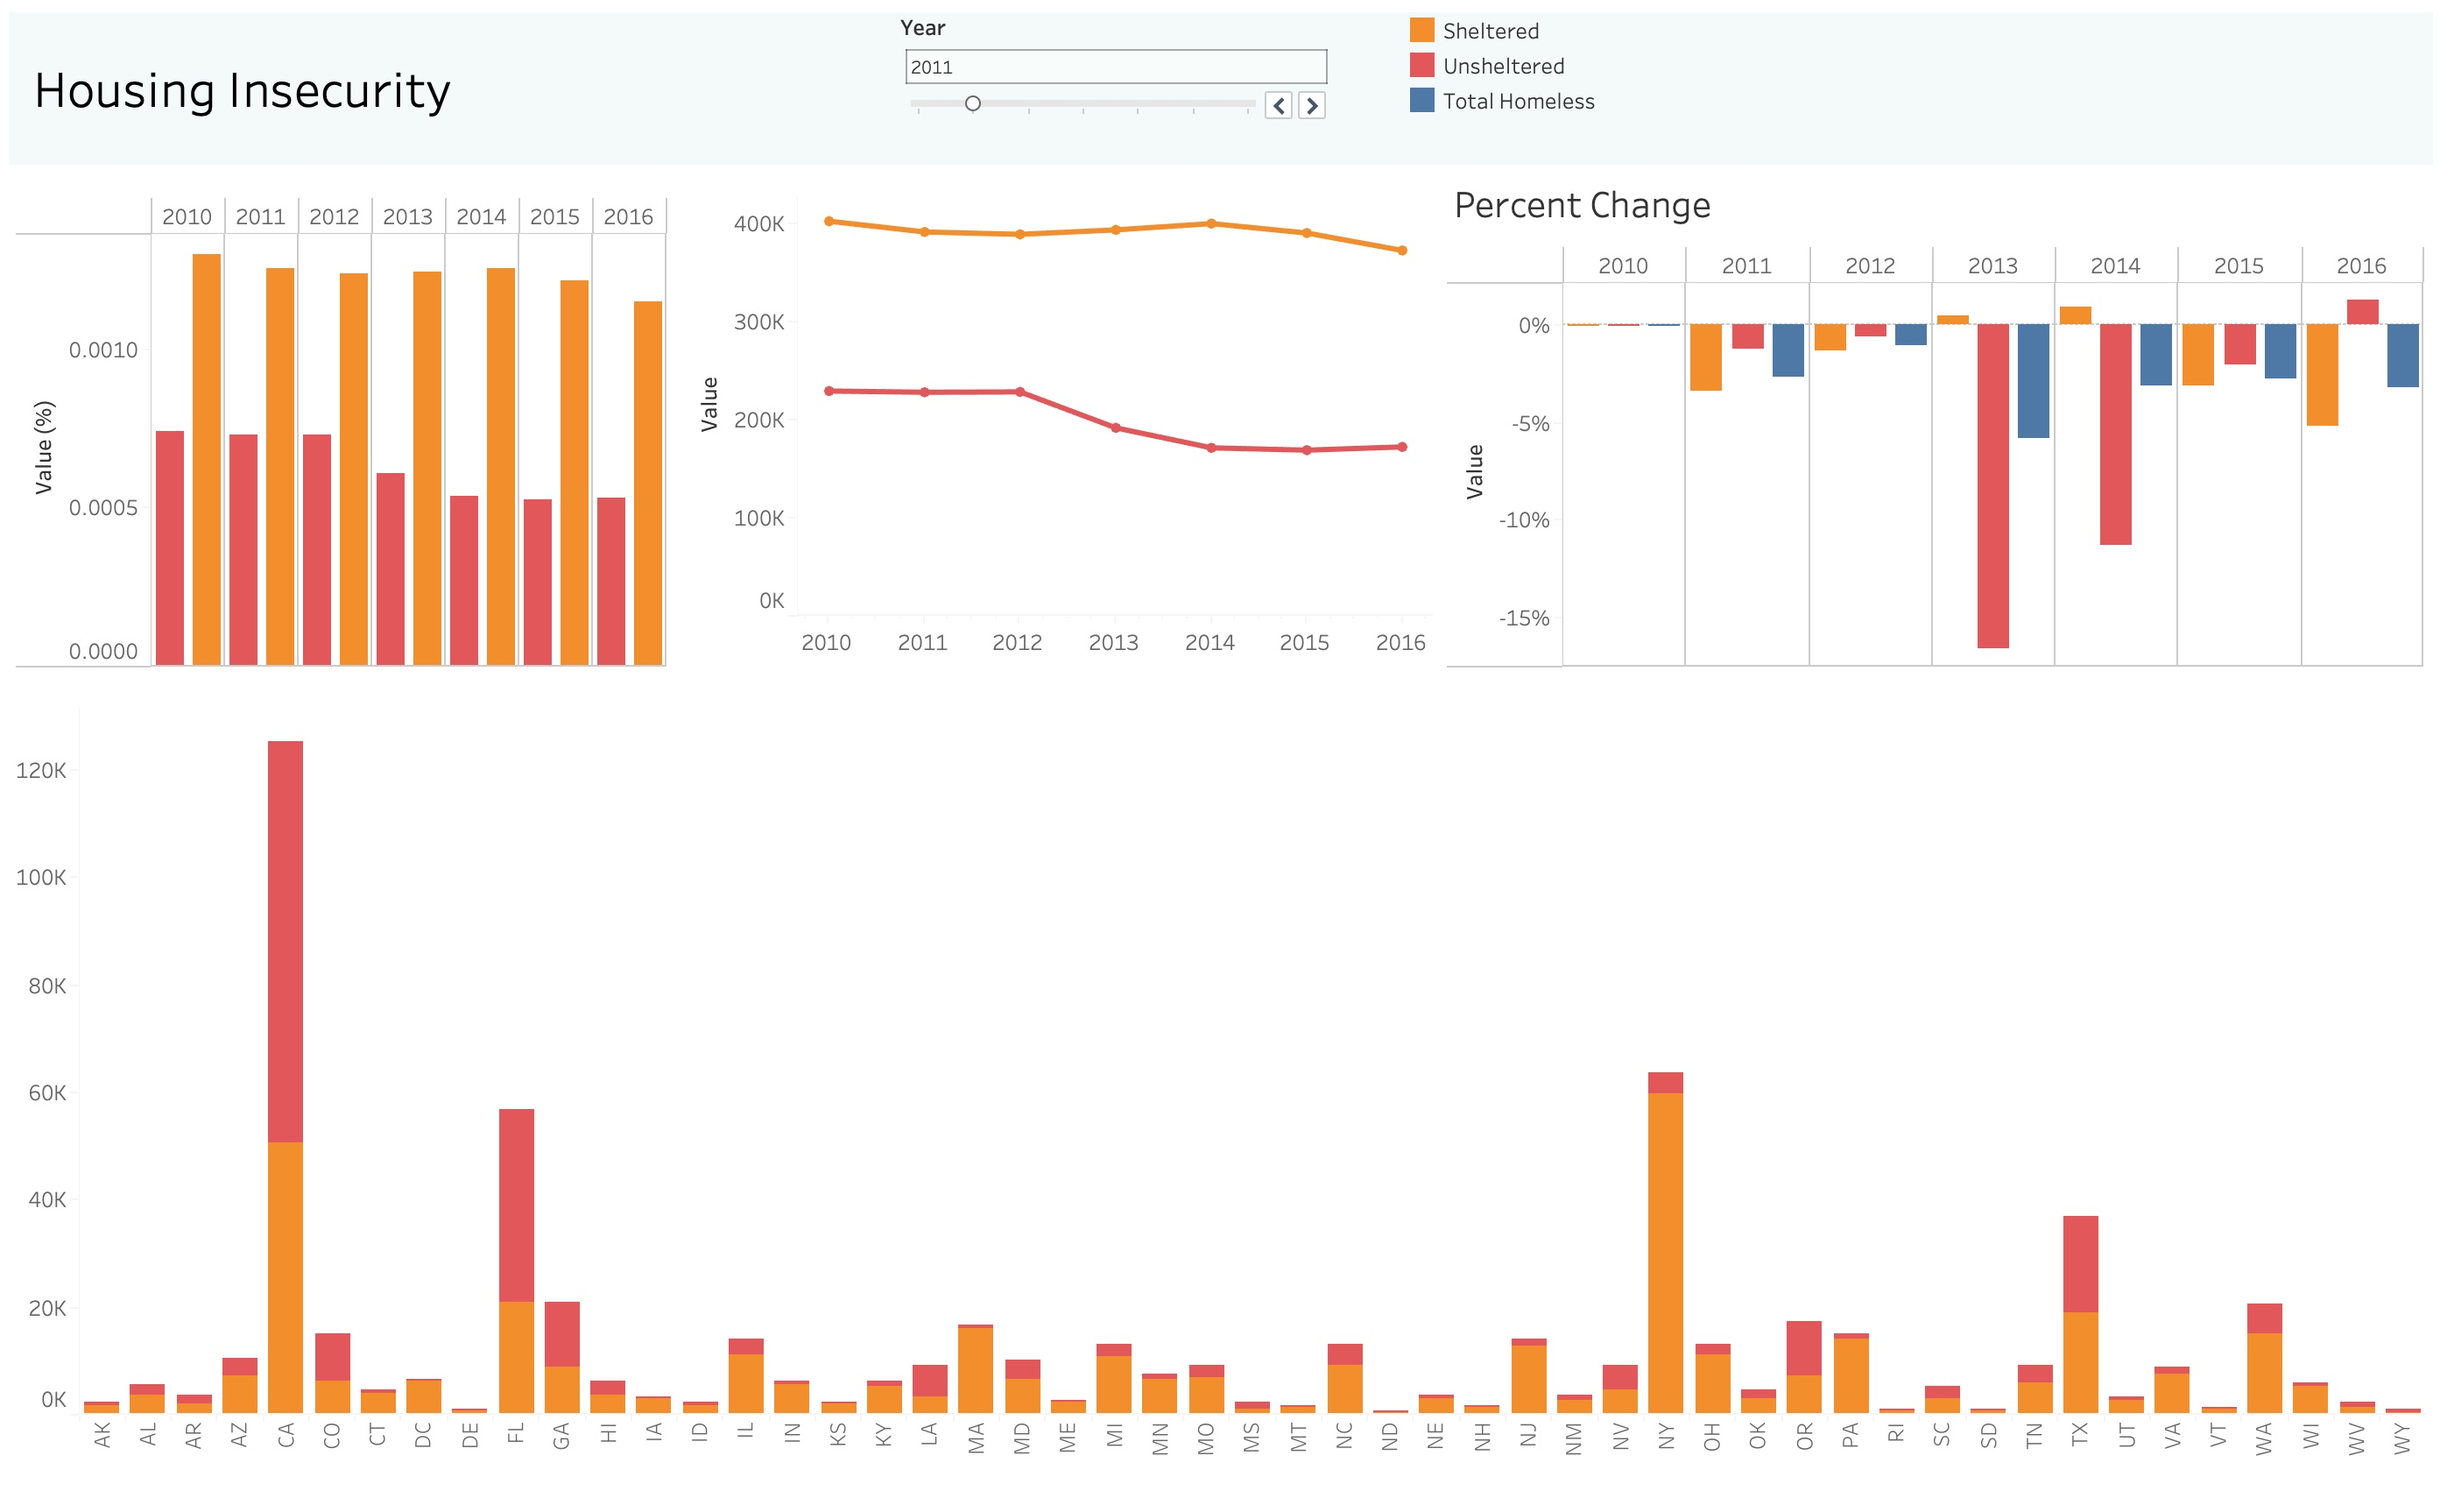
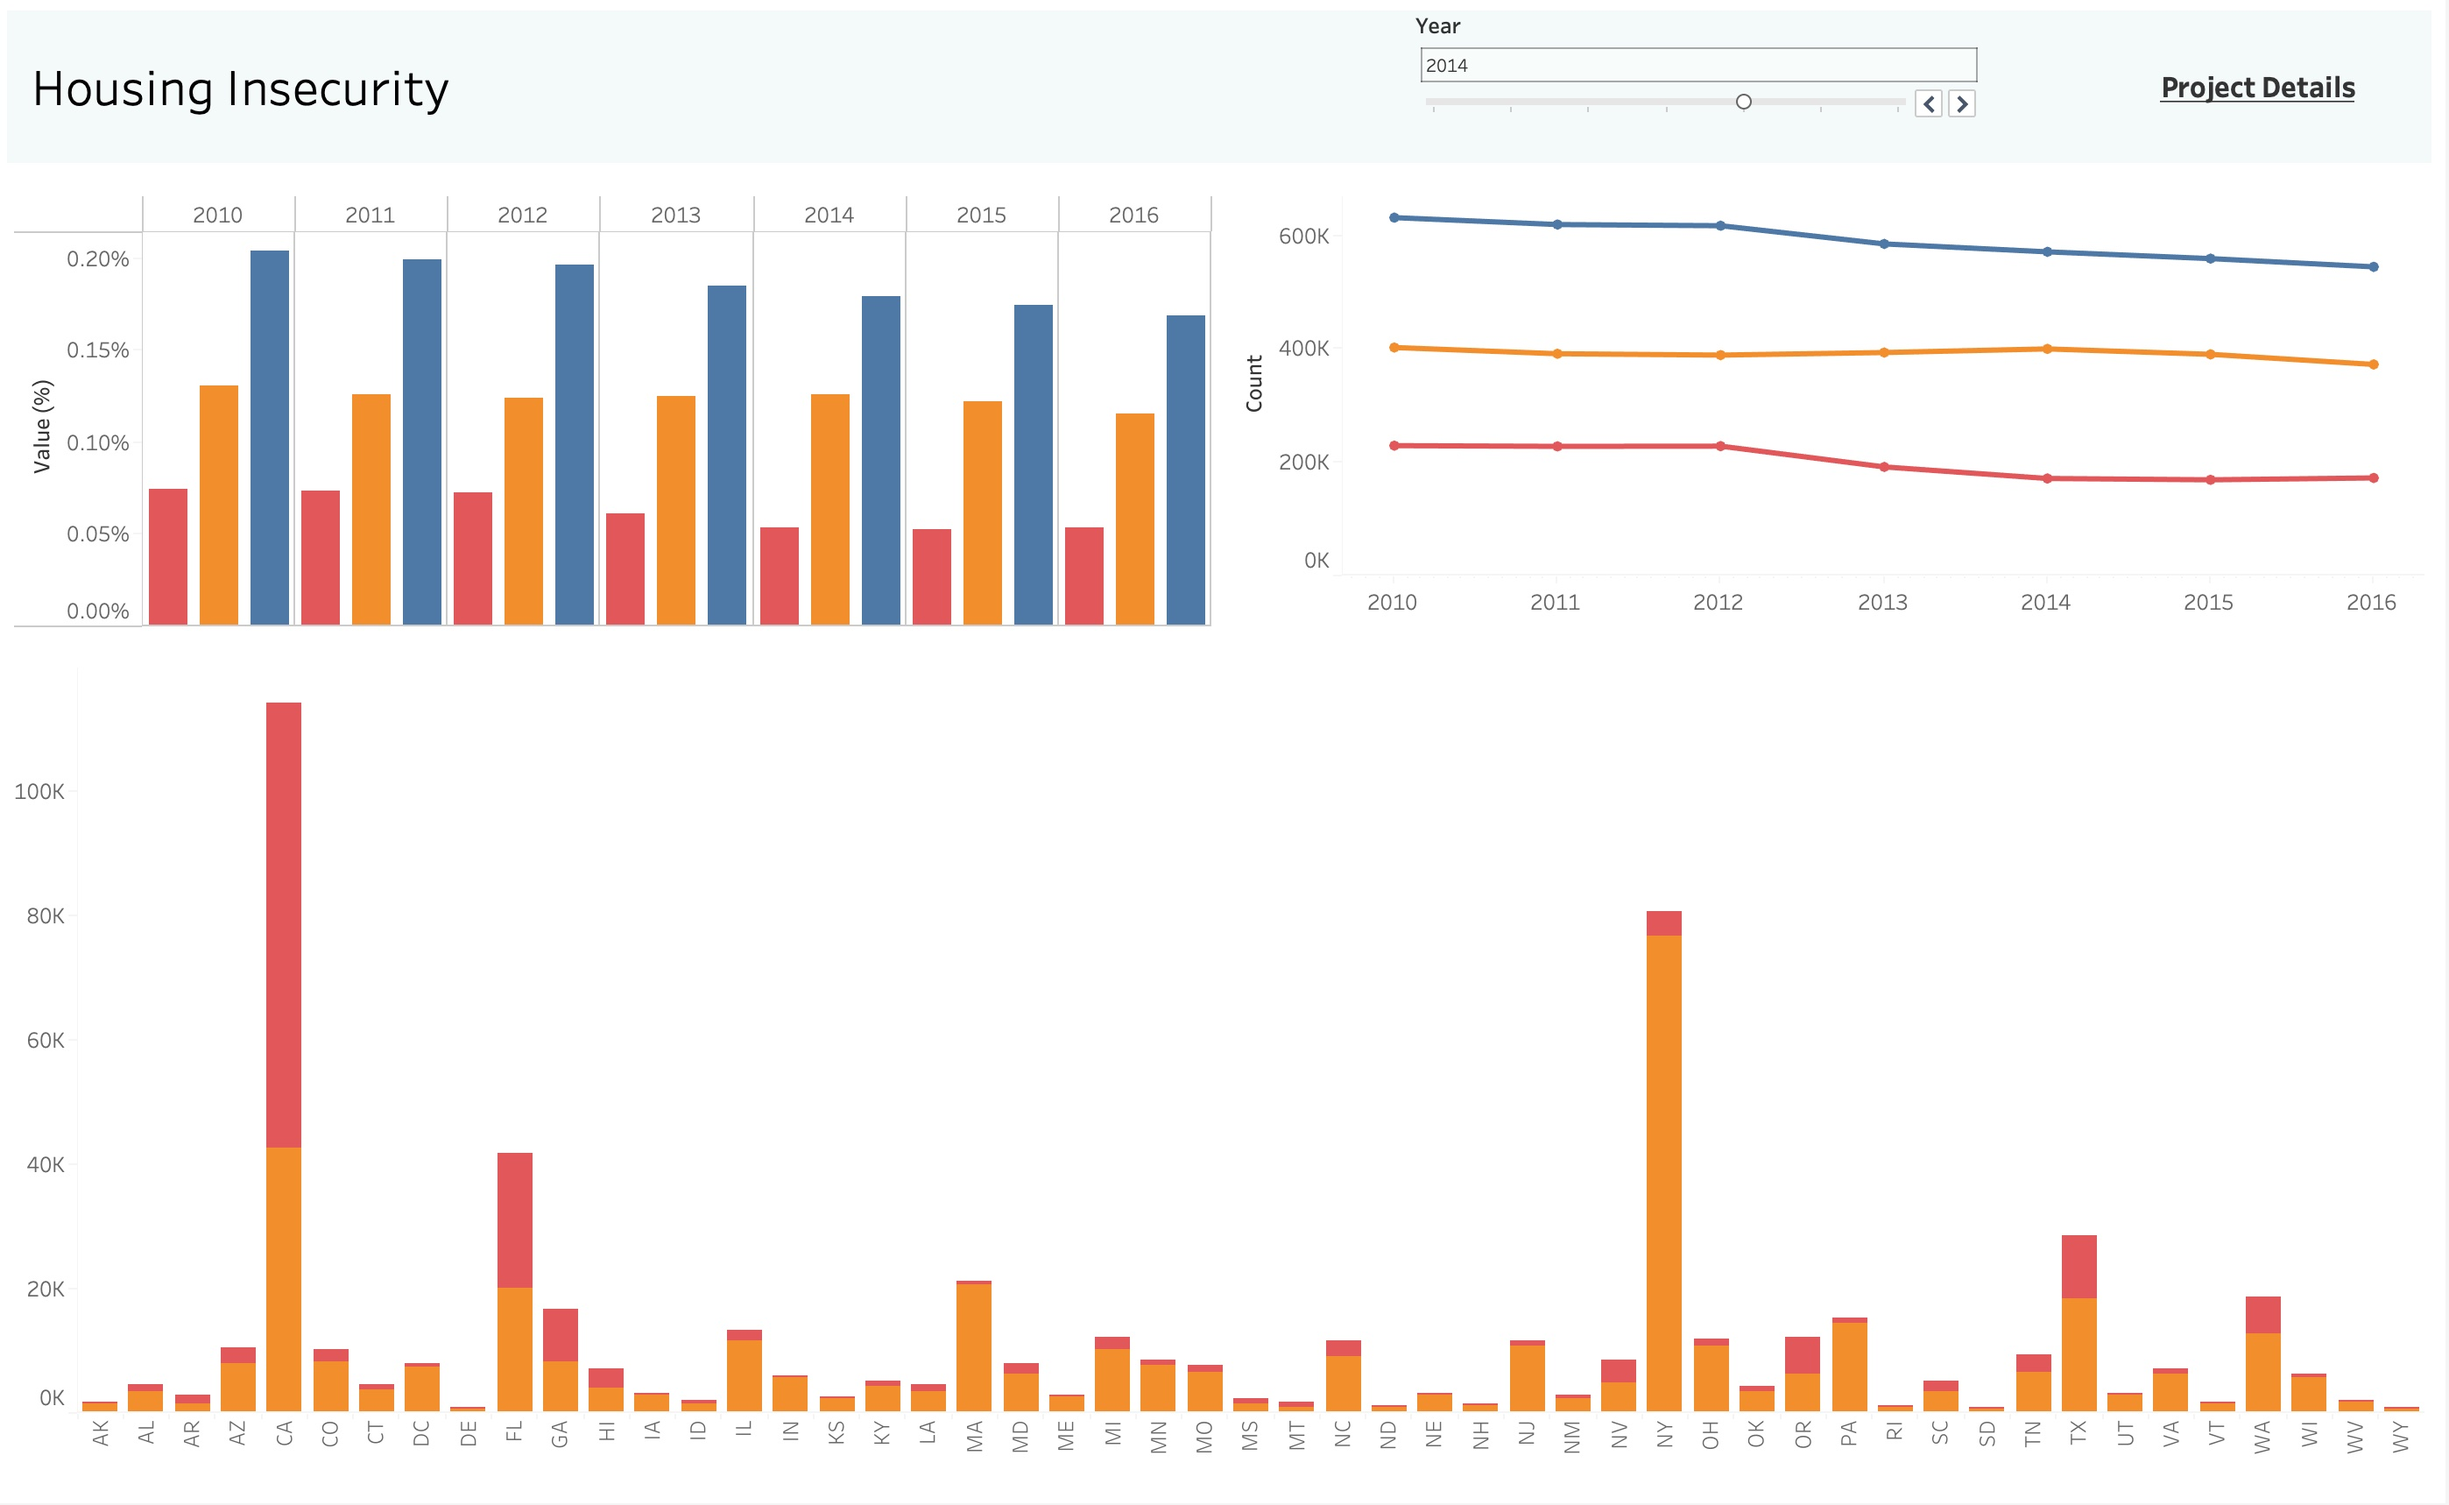
Analysis and Viz updates
Filled in remaining analysis sections. Deleted Percentage Change visualization as it did not add value to the study as posed and because the Quick Table Calculation -> Percent Difference function did not behave with the measures as expected.

diff --git a/README.md b/README.md
@@ -4,30 +4,48 @@
 
 
 ## Personal Case Study
-For over 20 years, I lived in an area where it was not generally obvious that there was any significant number of residents without shelter. I would see demographics for some of my students, however, that would identify these individuals as "homeless", and this had always sparked some curiosity and compassion in me. This led me listen to the podcast ["According to Need"](https://99percentinvisible.org/need/) by reporter Katie Mingle.  
+For over 20 years, I lived in an area where it was not generally obvious that there was any significant number of residents struggling with housing security. I would see demographics for some of my students, however, that would identify these individuals as "homeless", and this had always sparked some curiosity and compassion within me. This (and a recommendation from my good friend, Paul) led me listen to the podcast ["According to Need"](https://99percentinvisible.org/need/) by reporter Katie Mingle.  
 
 Since listening to that podcast, I have moved to a small city where I routinely see people in the same clothes day-after-day, sleeping in the park, and gathering in groups in the same area to have some company while they pass the time. Often these people will sleep during the day. I imagine this is because it feels safer than sleeping outside at night.
-There are many circumstances that can lead to homelessness - and it is not as difficult to fall into as many people think. Losing a job, having high medical bills or chronic physical or mental health issues, automobile issues (having none or having one break down), lack of a general support system, and weather-related disasters are just a few scenarios that come to mind.  
+There are many circumstances that can lead to homelessness - and it is not as difficult to fall into as many people think. Losing a job, having high medical bills, chronic physical or mental health issues, automobile issues (having none or having one break down), lack of a general support system, and weather-related disasters are just a few scenarios that come to mind.  
 
-Many people in the U.S. are barely scraping by to purchase food and pay their rent. One hiccough in their fragile financial system can cause it all to collapse. I decided to 
+Many people in the U.S. are barely scraping by to purchase food and pay their rent. One hiccough in their fragile financial system can cause it all to collapse. Once homeless, it can be a near insurmountable task to change one's circumstances.  For someone without shelter, they may not have a place to launder their clothes or bathe. This can make interviewing for a job very challengeing. Also, applications of many kinds require an address. The obstacles can be compounding.  
+
+So, as I am still interested in the issues surrounding housing insecurity, I decided to continue my research with this case study.
 
 
 ## Analysis Task
 Let's look specifically at housing insecurity trends from 2010 until 2016: 
-1. Which years had the highest and lowest homelessness percentages of the U.S. Population.
-What are the overall trends of housing insecurity among sheltered and unsheltered homeless individuals?
-2. What are the two peak years for the homelessness count in the U.S.?
-3. Between which two years did homelessness change the most drastically in the U.S.?
-4. Which states have the highest overall count of homeless individuals (not considering population here).
+1. Which 2 years had the highest and lowest homelessness percentages of the U.S. Population?
+2. What are the overall trends of housing insecurity among sheltered and unsheltered homeless individuals?
+3. What are the two peak years for the homelessness count in the U.S.?
+4. Between which two years did homelessness change the most drastically in the U.S.?
+5. Which states have the highest overall count of homeless individuals in the latest year of this study, 2016? (not considering population here)  
 
 
 # Response to Analysis Task
 
-1. First response here.
+1. Of the 7 years studied (2010-2016), 2010 had the highest percentage of homeless individuals in the United States: 0.204%.  
+2011 has the next highest at 0.198%.   
+The percentage of homeless individuals fell consistently from 2010 to 2016. In 2016 the homeless population was 0.168% and in 2015 it was 0.174%.
+2.  Throughout all years, when the values from all states are considered, the percentage of sheltered homeless individuals was greater than unsheltered. The percentage of sheltered homeless individuals become consistently more than twice that of unshelterd in 2013.
+3.  The year 2010 saw the highest homeless count (630,806) with 2011 next (618,611). The total number of homeless individuals fell consistently each year of this study.
+4. Homelessness had the greatest change between 2012 and 2013 when it fell from 616,556 to 584,483 and from 0.196% to 0.185%.
+5.  California, New York, and Florida have the highest number of homeless individuals each of the 7 years. In 2016, their homeless populations were:  
+California: 118,142  
+New York: 86,352  
+Florida: 33,559   
+In New York, the number of sheltered homeless individuals far outnumber the unsheltered every year.
+California consistently has more unsheltered individuals than sheltered.
+Florida had more unsheltered until 2015, when the sheltered homeless population surpassed it.
 
 
 ## Suggestions For Future Analysis  
-1. First Suggestion here.
+1. Add recent years of housing insecurity data and census population data to continue this study.
+2. May have to pivot and start with a new dashboard for additional years as data found in newer sources include more demographic information and I may want to include such things as gender, age, LGBTQ+ identifiers, etc.
+3. Focus on places that have been hit by natural disasters including weather-related events.
+4. Research if it is possible to see how COVID-19 affected homelessness. Did more people become homeless due to lack of work during quarntine? Did we lose people in the homeless community because they had lack of resources (food, healthcare, media warnings, etc.)?
+5. Determine if the trends found here continue during the next years.
 
 
 ## Data Preparation
@@ -37,7 +55,7 @@ Data preparation documentation to date can be found in [DataTransformationAndCle
 Explainations of visualizations can be reviewed at [Visualizations.md](/Visualizations.md)
 
 ## Resources
-["According to Need"](https://99percentinvisible.org/need/)
+[According to Need Podcast](https://99percentinvisible.org/need/)  
 [Kaggle](https://www.kaggle.com/)
 [2007-2016-Homelessness-USA.csv](https://www.kaggle.com/datasets/adamschroeder/homelessness?select=2007-2016-Homelessnewss-USA.csv)  
 [Population-by-state.csv](https://www.kaggle.com/datasets/adamschroeder/homelessness?select=Population-by-state.csv)   

diff --git a/Visualizations.md b/Visualizations.md
@@ -2,16 +2,13 @@
 ## Visualizations
 **Yearly data from 2010 until 2016 is displayed at once without being able to look at more detailed data intervals. This is because our data contained data on individuals once for each year and our census data is also reported once each year.**
 
-**All visualizations show information on 'Sheltered Homeless' and 'Unsheltered Homeless' individuals. The Percent Change bar chart also shows totals (Sheltered Homeless + Unsheltered Homeless) each year.**
+**All visualizations show information on 'Sheltered Homeless' and 'Unsheltered Homeless' individuals. The side-By-side bar charts and the line graph also show totals (Sheltered Homeless + Unsheltered Homeless) for each year.**
 
 ### **Value (%) Side-By-Side Bar Chart**   
 Shows percentage of unsheltered and sheltered homeless individuals for year selected and either for all states or for those selected in the State Stacked Bar Chart.
 
 ### **Yearly Count Line Graph**   
 Shows the count of unsheltered and sheltered homeless individuals for year selected and either for all states or for those selected in the State Stacked Bar Chart.
-
-### **Percent Change of Homelessness % Side-By-Side Bar Chart**   
-Shows year over year percentage change of the percent of homelessness for all states or for those selected in the State Stacked Bar Chart. Bars represent unsheltered, sheltered, and the total of homeless individuals.
 
 ### **State Stacked Bar Chart**   
 Shows stacked ratio of sheltered and unsheltered homeless individuals for each state based on the year selected. 
